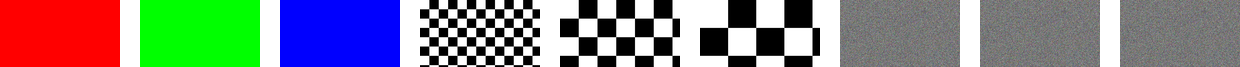
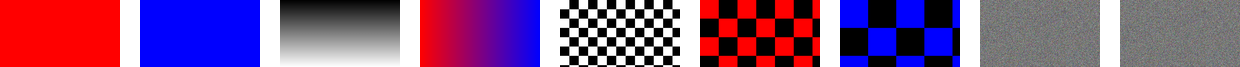
Refactoring

diff --git a/plugins/GeneratorPlugin.cpp b/plugins/GeneratorPlugin.cpp
@@ -204,6 +204,90 @@ OfxStatus FillPlugin::_render(
     return kOfxStatOK;
 }
 
+GradientPlugin* GradientPlugin::_instance = nullptr;
+
+GradientPlugin::GradientPlugin() :
+    GeneratorPlugin("Toucan", "Gradient")
+{}
+
+GradientPlugin::~GradientPlugin()
+{}
+
+void GradientPlugin::setHostFunc(OfxHost* host)
+{
+    if (!_instance)
+    {
+        _instance = new GradientPlugin;
+    }
+    _instance->_host = host;
+}
+
+OfxStatus GradientPlugin::mainEntryPoint(
+    const char* action,
+    const void* handle,
+    OfxPropertySetHandle inArgs,
+    OfxPropertySetHandle outArgs)
+{
+    return _instance->_entryPoint(action, handle, inArgs, outArgs);
+}
+
+OfxStatus GradientPlugin::_render(
+    OIIO::ImageBuf& outputBuf,
+    const OfxRectI& renderWindow,
+    OfxPropertySetHandle inArgs)
+{
+    double color1[4] = { 0.0, 0.0, 0.0, 0.0 };
+    double color2[4] = { 0.0, 0.0, 0.0, 0.0 };
+    _propertySuite->propGetDoubleN(inArgs, "color1", 4, color1);
+    _propertySuite->propGetDoubleN(inArgs, "color2", 4, color2);
+    int vertical = 0;
+    _propertySuite->propGetInt(inArgs, "vertical", 0, &vertical);
+
+    if (vertical)
+    {
+        OIIO::ImageBufAlgo::fill(
+            outputBuf,
+            {
+                static_cast<float>(color1[0]),
+                static_cast<float>(color1[1]),
+                static_cast<float>(color1[2]),
+                static_cast<float>(color1[3])
+            },
+            {
+                static_cast<float>(color2[0]),
+                static_cast<float>(color2[1]),
+                static_cast<float>(color2[2]),
+                static_cast<float>(color2[3])
+            },
+            OIIO::ROI());
+    }
+    else
+    {
+        const auto& spec = outputBuf.spec();
+        auto gradient = OIIO::ImageBuf(OIIO::ImageSpec(spec.height, spec.width, spec.nchannels));
+        OIIO::ImageBufAlgo::fill(
+            gradient,
+            {
+                static_cast<float>(color1[0]),
+                static_cast<float>(color1[1]),
+                static_cast<float>(color1[2]),
+                static_cast<float>(color1[3])
+            },
+            {
+                static_cast<float>(color2[0]),
+                static_cast<float>(color2[1]),
+                static_cast<float>(color2[2]),
+                static_cast<float>(color2[3])
+            },
+            OIIO::ROI());
+        OIIO::ImageBufAlgo::copy(
+            outputBuf,
+            OIIO::ImageBufAlgo::rotate270(gradient));
+    }
+
+    return kOfxStatOK;
+}
+
 NoisePlugin* NoisePlugin::_instance = nullptr;
 
 NoisePlugin::NoisePlugin() :
@@ -272,6 +356,7 @@ namespace
     {
         { kOfxImageEffectPluginApi, 1, "Toucan:Checkers", 1, 0, CheckersPlugin::setHostFunc, CheckersPlugin::mainEntryPoint },
         { kOfxImageEffectPluginApi, 1, "Toucan:Fill", 1, 0, FillPlugin::setHostFunc, FillPlugin::mainEntryPoint },
+        { kOfxImageEffectPluginApi, 1, "Toucan:Gradient", 1, 0, GradientPlugin::setHostFunc, GradientPlugin::mainEntryPoint },
         { kOfxImageEffectPluginApi, 1, "Toucan:Noise", 1, 0, NoisePlugin::setHostFunc, NoisePlugin::mainEntryPoint }
     };
 }

diff --git a/lib/toucan/TimelineGraph.cpp b/lib/toucan/TimelineGraph.cpp
@@ -296,6 +296,33 @@ namespace toucan
                     auto generator = std::make_shared<FillNode>(data);
                     out = generator;
                 }
+                else if ("Gradient" == generatorRef->generator_kind())
+                {
+                    GradientData data;
+                    auto parameters = generatorRef->parameters();
+                    auto i = parameters.find("size");
+                    if (i != parameters.end() && i->second.has_value())
+                    {
+                        anyToVec(std::any_cast<OTIO_NS::AnyVector>(i->second), data.size);
+                    }
+                    i = parameters.find("color1");
+                    if (i != parameters.end() && i->second.has_value())
+                    {
+                        anyToVec(std::any_cast<OTIO_NS::AnyVector>(i->second), data.color1);
+                    }
+                    i = parameters.find("color2");
+                    if (i != parameters.end() && i->second.has_value())
+                    {
+                        anyToVec(std::any_cast<OTIO_NS::AnyVector>(i->second), data.color2);
+                    }
+                    i = parameters.find("vertical");
+                    if (i != parameters.end() && i->second.has_value())
+                    {
+                        data.vertical = std::any_cast<bool>(i->second);
+                    }
+                    auto generator = std::make_shared<GradientNode>(data);
+                    out = generator;
+                }
                 else if ("Noise" == generatorRef->generator_kind())
                 {
                     NoiseData data;

diff --git a/lib/toucan/Generator.cpp b/lib/toucan/Generator.cpp
@@ -95,6 +95,53 @@ namespace toucan
         return buf;
     }
 
+    GradientNode::GradientNode(
+        const GradientData& data,
+        const std::vector<std::shared_ptr<IImageNode> >& inputs) :
+        IImageNode("Gradient", inputs),
+        _data(data)
+    {}
+
+    GradientNode::~GradientNode()
+    {}
+
+    const GradientData& GradientNode::getData() const
+    {
+        return _data;
+    }
+
+    void GradientNode::setData(const GradientData& value)
+    {
+        _data = value;
+    }
+
+    OIIO::ImageBuf GradientNode::exec(
+        const OTIO_NS::RationalTime& time,
+        const std::shared_ptr<ImageEffectHost>& host)
+    {
+        OIIO::ImageBuf buf(OIIO::ImageSpec(_data.size.x, _data.size.y, 4));
+        PropertySet propSet;
+        const double color1[] =
+        {
+            _data.color1.x,
+            _data.color1.y,
+            _data.color1.z,
+            _data.color1.w
+        };
+        propSet.setDoubleN("color1", 4, color1);
+        const double color2[] =
+        {
+            _data.color2.x,
+            _data.color2.y,
+            _data.color2.z,
+            _data.color2.w
+        };
+        propSet.setDoubleN("color2", 4, color2);
+        propSet.setInt("vertical", 0, _data.vertical);
+        host->generator("Toucan:Gradient", buf, propSet);
+        return buf;
+    }
+
     std::string FillNode::_getGraphLabel(const OTIO_NS::RationalTime&) const
     {
         std::stringstream ss;

diff --git a/lib/toucan/Generator.h b/lib/toucan/Generator.h
@@ -42,7 +42,7 @@ namespace toucan
     struct FillData
     {
         IMATH_NAMESPACE::V2i size  = IMATH_NAMESPACE::V2i(0, 0);
-        IMATH_NAMESPACE::V4f color = IMATH_NAMESPACE::V4f(0.F, 0.F, 0.F, 0.F);
+        IMATH_NAMESPACE::V4f color = IMATH_NAMESPACE::V4f(0.F, 0.F, 0.F, 1.F);
     };
 
     //! Fill node.
@@ -67,6 +67,36 @@ namespace toucan
 
     private:
         FillData _data;
+    };
+
+    //! Gradient data.
+    struct GradientData
+    {
+        IMATH_NAMESPACE::V2i size = IMATH_NAMESPACE::V2i(0, 0);
+        IMATH_NAMESPACE::V4f color1 = IMATH_NAMESPACE::V4f(0.F, 0.F, 0.F, 1.F);
+        IMATH_NAMESPACE::V4f color2 = IMATH_NAMESPACE::V4f(1.F, 1.F, 1.F, 1.F);
+        bool vertical = true;
+    };
+
+    //! Gradient node.
+    class GradientNode : public IImageNode
+    {
+    public:
+        GradientNode(
+            const GradientData & = GradientData(),
+            const std::vector<std::shared_ptr<IImageNode> > & = {});
+
+        virtual ~GradientNode();
+
+        const GradientData& getData() const;
+        void setData(const GradientData&);
+
+        OIIO::ImageBuf exec(
+            const OTIO_NS::RationalTime&,
+            const std::shared_ptr<ImageEffectHost>&) override;
+
+    private:
+        GradientData _data;
     };
 
     //! Noise data.

diff --git a/plugins/GeneratorPlugin.h b/plugins/GeneratorPlugin.h
@@ -81,6 +81,31 @@ private:
     static FillPlugin* _instance;
 };
 
+class GradientPlugin : public GeneratorPlugin
+{
+public:
+    GradientPlugin();
+
+    virtual ~GradientPlugin();
+
+    static void setHostFunc(OfxHost*);
+
+    static OfxStatus mainEntryPoint(
+        const char* action,
+        const void* handle,
+        OfxPropertySetHandle inArgs,
+        OfxPropertySetHandle outArgs);
+
+protected:
+    OfxStatus _render(
+        OIIO::ImageBuf&,
+        const OfxRectI& renderWindow,
+        OfxPropertySetHandle inArgs) override;
+
+private:
+    static GradientPlugin* _instance;
+};
+
 class NoisePlugin : public GeneratorPlugin
 {
 public:

diff --git a/README.md b/README.md
@@ -15,7 +15,7 @@ Dependencies:
 
 Features
 ========
-* Generators: Checkers, Fill, Noise
+* Generators: Checkers, Fill, Gradient, Noise
 * Drawing: Box, Line, Text
 * Filters: Blur, Color Map, Invert, Power, Saturate, Unsharp Mask
 * Transforms: Flip, Flop, Resize, Rotate
@@ -42,7 +42,7 @@ Linear time warps:
 
 ![LinearTimeWarp](images/LinearTimeWarp.png)
 
-Generators; fill, checkers, and noise:
+Generators; fill, gradient, checkers, and noise:
 
 ![Generators](images/Generator.png)
 
